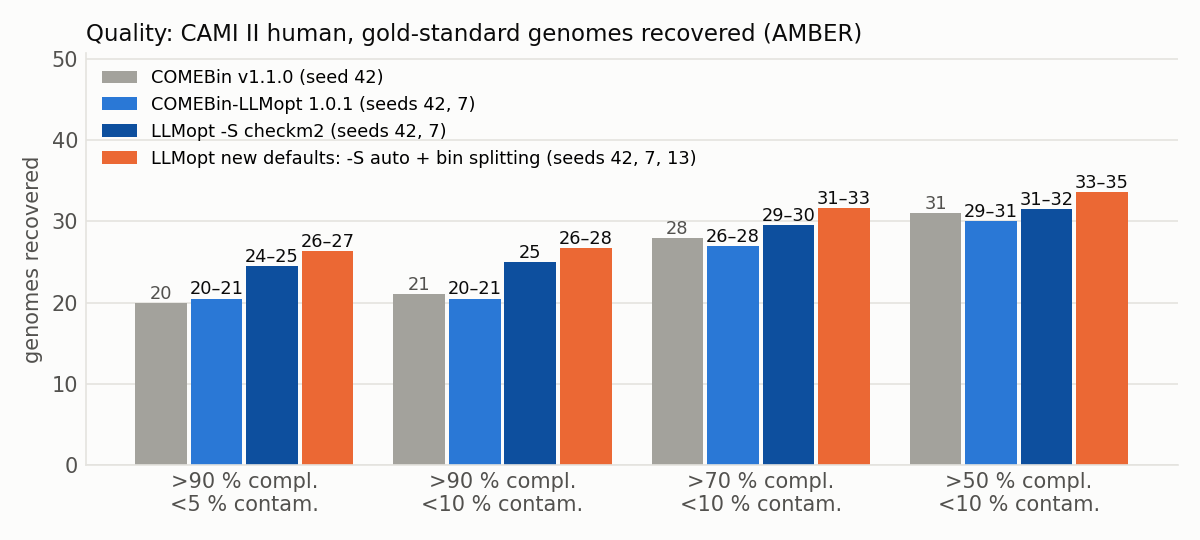
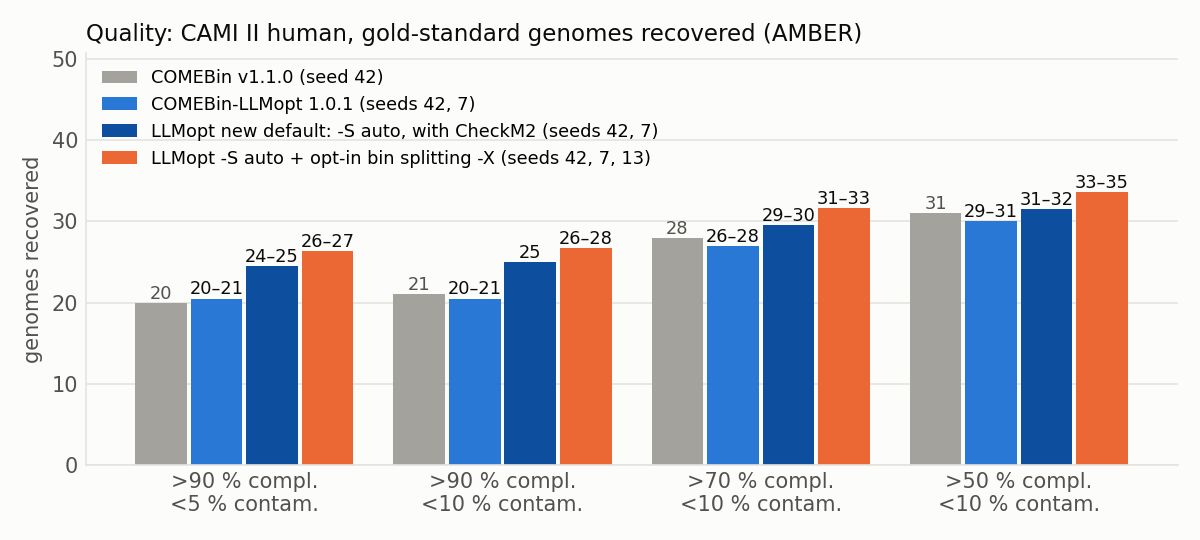
Bin splitting (-X) back to opt-in: it lowers the average bin completeness on some data; -S auto stays the default

Changed region(s): [[0.185, 0.2074, 0.5858, 0.3259]]

diff --git a/README.md b/README.md
@@ -61,7 +61,7 @@ BATS medium: 14 instead of 39 min; 32 threads).
 - `-s INT`: random seed for reproducible runs.
 - `-V`: print the version.
 - `-S checkm2` and `-D PATH`: choose the final bins across all Leiden partitions with CheckM2 (see below).
-- `-X`: split final bins whose marker genes show contamination. Not yet released; on `dev` it is the default (`-x` turns it off), and `-S auto` is the default selection (see CHANGELOG).
+- `-X`: split final bins whose marker genes show contamination (opt-in; not yet released, see CHANGELOG). On `master`, `-S auto` is the default selection.
 - If `-l` (temperature) is not given, it is chosen from the N50: 0.07 above 10 kb, otherwise 0.15.
 
 **Robustness**
@@ -71,13 +71,13 @@ BATS medium: 14 instead of 39 min; 32 threads).
 - An interrupted run no longer reuses incomplete intermediate files.
 - The log shows the wall time of every stage.
 
-## Better bins: CheckM2 selection and bin splitting (default on `master`, next release)
+## Better bins: CheckM2 selection (default on `master`, next release) and bin splitting (opt-in)
 
 COMEBin clusters the contig embeddings with Leiden about 120 times (different resolutions and
 bandwidths) and keeps the one partition with the best marker-gene score. Often a genome is binned
 well in one partition and badly in the chosen one, and some final bins still merge two genomes.
 COMEBin-LLMopt adds two steps after clustering. In 1.0.2 both are opt-in; on `master` (next release)
-both are the default.
+the CheckM2 selection is the default and bin splitting stays opt-in.
 
 **CheckM2 bin selection** (`-S checkm2`; default `-S auto`) picks the best bins from all partitions:
 
@@ -89,20 +89,20 @@ both are the default.
 4. Leftover contigs keep their bins from the partition COMEBin chose, so viruses and plasmids that
    CheckM2 cannot score are not lost.
 
-**Bin splitting** (`-X` in 1.0.2; default on `master`, `-x` turns it off): each final bin whose
+**Bin splitting** (`-X`, opt-in): each final bin whose
 single-copy marker genes show at least 5 % contamination is re-clustered with length-weighted k-means
 (k = 2–4) on its contigs' embeddings. The split is kept when it raises the sum of
 completeness − 5 × contamination over the parts of at least 200 kb; smaller parts are not reported.
 
-On CAMI II human (seeds 42, 7, 13), both together recover 26–27 gold-standard genomes at > 90 %
-completeness and < 5 % contamination instead of 20–21 (CheckM2 selection alone: 24–25; splitting
-alone: 21–24). The costs: 94–98 % of the sequence is assigned instead of 99 %, and the run takes
-39 instead of 32 min. On BATS medium the mean CheckM2 contamination falls from about 4 % to 1.5 %.
+On CAMI II human, the CheckM2 selection recovers 24–26 gold-standard genomes at > 90 % completeness and
+< 5 % contamination instead of 20–21, for 36 instead of 32 min. Adding `-X` gives 26–27, but it also
+cuts low-quality bins into several small ones, so 94–98 % of the sequence is assigned instead of 99 %
+and the bp-weighted AMBER F1 can drop (0.728 → 0.671 with seed 7). That is why it stays opt-in.
 
 ![Gold-standard genomes recovered on CAMI II human](benchmark/figures/quality_defaults.png)
 
 The CheckM2 selection needs [CheckM2](https://github.com/chklovski/CheckM2) and its database (`-D`, or
-`checkm2 database --download`) and about 10 GB of RAM. With `-S auto` (the new default), a run without a
+`checkm2 database --download`) and about 10 GB of RAM. With `-S auto` (the default on `master`), a run without a
 working CheckM2 keeps COMEBin's selection and logs a warning; `-S checkm2` stops with an error instead.
 In 1.0.2, `-S checkm2` without CheckM2 falls back to the default selection with a warning.
 
@@ -152,7 +152,7 @@ comebin-llmopt -a contigs.fasta -p bam_dir/ -o out/ -t 32 -d cpu -s 42
 ```
 
 Add `-S checkm2 -D /path/to/uniref100.KO.1.dmnd` for the CheckM2 bin selection (see above); on `master` it is used
-automatically when CheckM2 is installed (`-D` sets its database, `-S partition` turns it off).
+automatically when CheckM2 is installed (`-D` sets its database, `-S partition` turns it off). Add `-X` to split contaminated bins.
 Use `-d cuda` to train on a GPU. `comebin-llmopt -h` lists all options. Results:
 
 - `out/comebin_res/comebin_res_bins/`: one FASTA file per bin. Bins under 200 kb are not reported.

diff --git a/CHANGELOG.md b/CHANGELOG.md
@@ -5,16 +5,15 @@ COMEBin-LLMopt versions. Each entry lists changes relative to the previous versi
 
 ## Unreleased
 
-### New defaults (better bins)
-- **Bin splitting is on by default** (`-x` turns it off; `-X` is still accepted). See below.
+### New default (better bins)
 - **`-S auto` is the new default:** the CheckM2 bin selection (`-S checkm2`) is used when CheckM2 is installed and works, otherwise the partition chosen by marker score, with a warning in the log. `-S checkm2` now fails when CheckM2 is missing or fails, instead of silently falling back.
-  - CAMI II human (AMBER, seeds 42 / 7 / 13), split + CheckM2 selection against 1.0.2: genomes > 90 % complete and < 5 % contaminated 20 / 21 / 21 → 26 / 27 / 26, > 50 % / < 10 % 31 / 29 / 31 → 33 / 35 / 33, ARI 0.77 / 0.76 / 0.77 → 0.87 / 0.84 / 0.87. Assigned sequence 99 % → 94–98 %. Run time 32 → 39 min, peak memory of the CheckM2 step about 10 GB.
-  - BATS medium (CheckM2, 3 seeds): high/medium-quality bins unchanged (0 / 2), mean contamination 3.5–4.2 % → 1.4–1.7 %.
+  - CAMI II human (AMBER, seeds 42 / 7), CheckM2 selection against 1.0.x: genomes > 90 % complete and < 5 % contaminated 20 / 21 → 25 / 24, ARI 0.77 / 0.76 → 0.82 / 0.81. Run time 32 → 36 min, peak memory of the CheckM2 step about 10 GB.
 
 ### New option
-- **`-X`: split contaminated bins** (now the default). After the final bins are chosen, each bin whose single-copy marker genes show at least 5 % contamination is re-clustered with length-weighted k-means (k = 2–4) on its contigs' embeddings. The split is kept when it raises the sum of (completeness − 5 × contamination) over the parts of at least 200 kb; smaller parts are not reported. No extra run time.
-  - CAMI II human (AMBER, seeds 42 / 7): genomes > 90 % complete and < 5 % contaminated 20 → 21 / 21 → 24, > 50 % / < 10 % 31 → 33 / 29 → 33, ARI 0.768 → 0.818 / 0.759 → 0.783. Assigned sequence drops from 99 % to 94 % / 98 %.
-  - BATS medium (CheckM2, seeds 42 / 7): high/medium-quality bins unchanged (0 / 2), mean contamination 4.2 → 1.4 % / 3.5 → 1.7 %.
+- **`-X`: split contaminated bins** (opt-in). After the final bins are chosen, each bin whose single-copy marker genes show at least 5 % contamination is re-clustered with length-weighted k-means (k = 2–4) on its contigs' embeddings. The split is kept when it raises the sum of (completeness − 5 × contamination) over the parts of at least 200 kb; smaller parts are not reported. No extra run time.
+  - CAMI II human (AMBER, seeds 42 / 7 / 13), with the CheckM2 selection: genomes > 90 % complete and < 5 % contaminated 25 / 24 / 26 → 26 / 27 / 26, ARI 0.82 / 0.81 / 0.82 → 0.87 / 0.84 / 0.87. Assigned sequence drops from 99 % to 94–98 %.
+  - It stays opt-in because it can lower the average bin completeness: the bp-weighted AMBER F1 fell from 0.728 to 0.671 with seed 7, and splitting often cuts low-quality bins into several small ones.
+  - BATS medium (CheckM2, 3 seeds): high/medium-quality bins unchanged (0 / 2), mean contamination 3.5–4.2 % → 1.4–1.7 %.
 
 ## 1.0.2 (2026-11-12)
 
